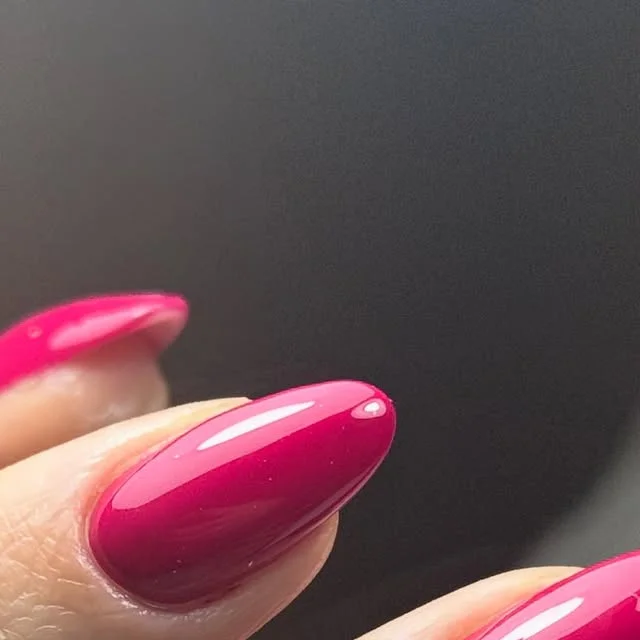
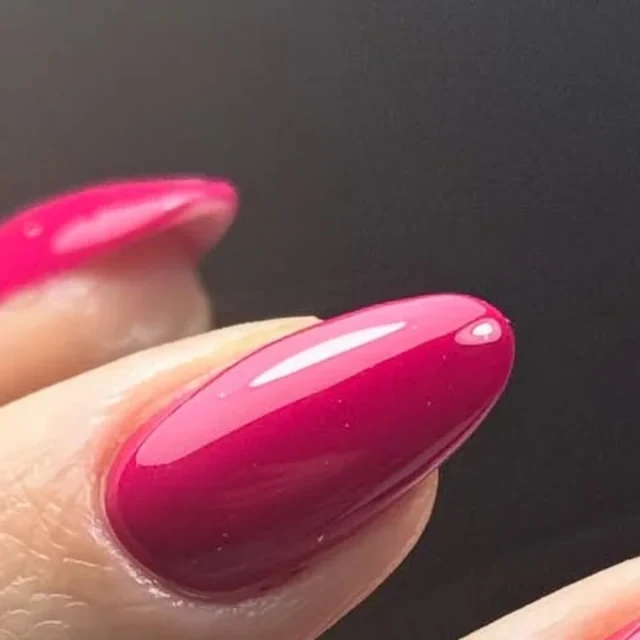
fix(galerie): recadre nail-3 sur la main (bottom-left source)
La photo originale avait la main dans le coin bas-gauche avec
beaucoup de fond studio sombre. Crop 480x480+10+0 puis resize 640x640
pour centrer le sujet. Retire le scale-down CSS qui ne servait plus.

diff --git a/css/style.css b/css/style.css
@@ -765,16 +765,6 @@ button { font-family: inherit; cursor: pointer; }
 }
 .gallery-item:hover { transform: translateY(-4px); }
 .gallery-item:hover img { transform: scale(1.06); filter: brightness(1.04); }
-
-.gallery .gallery-item:nth-child(4) {
-  background: linear-gradient(135deg, #1a0d18 0%, #321524 50%, #0c0610 100%);
-}
-.gallery .gallery-item:nth-child(4) img {
-  transform: scale(0.78);
-}
-.gallery .gallery-item:nth-child(4):hover img {
-  transform: scale(0.84);
-}
 .gallery-item:hover::after { opacity: 1; transform: translateY(0); }
 .gallery-cta { text-align: center; }
 